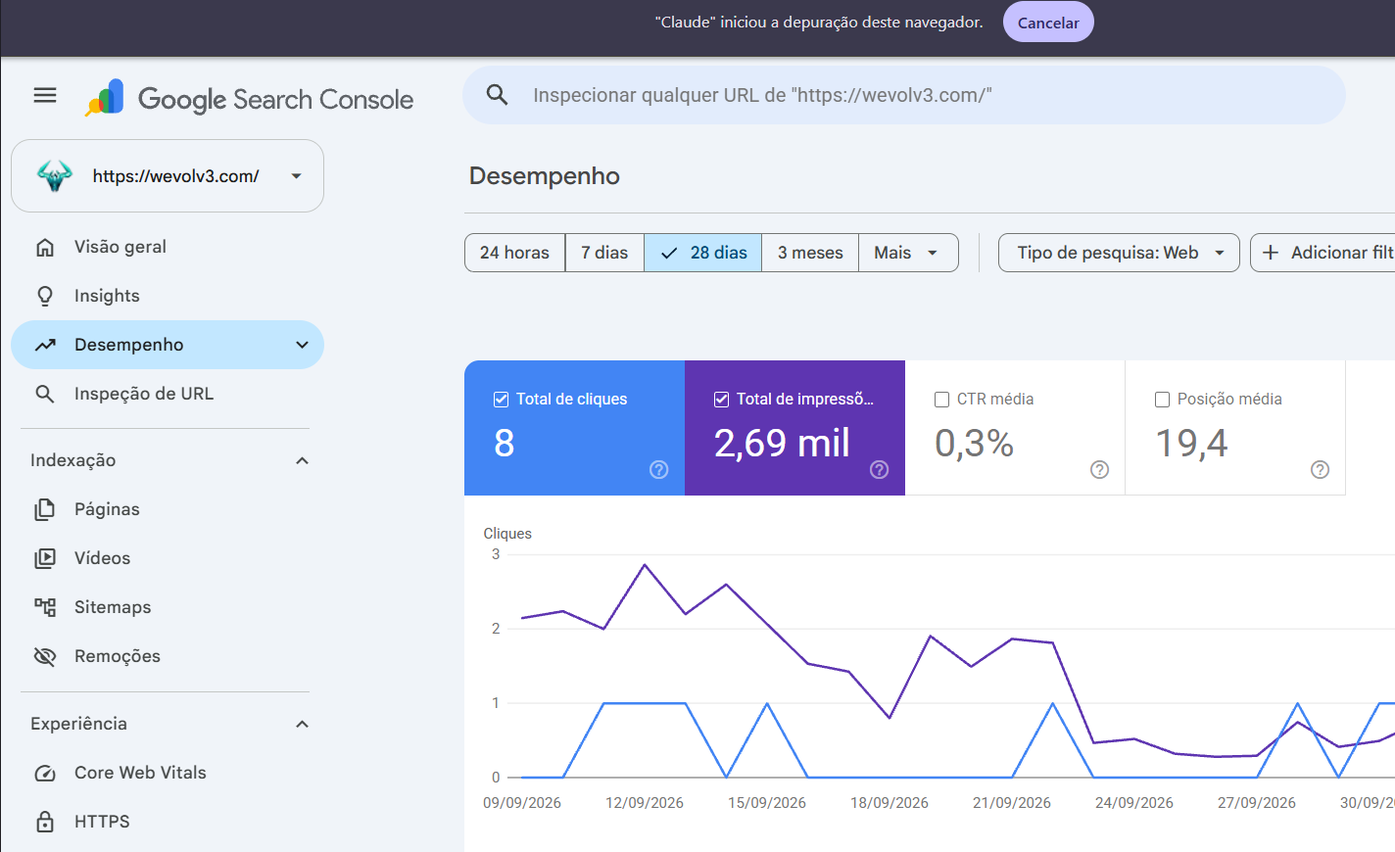
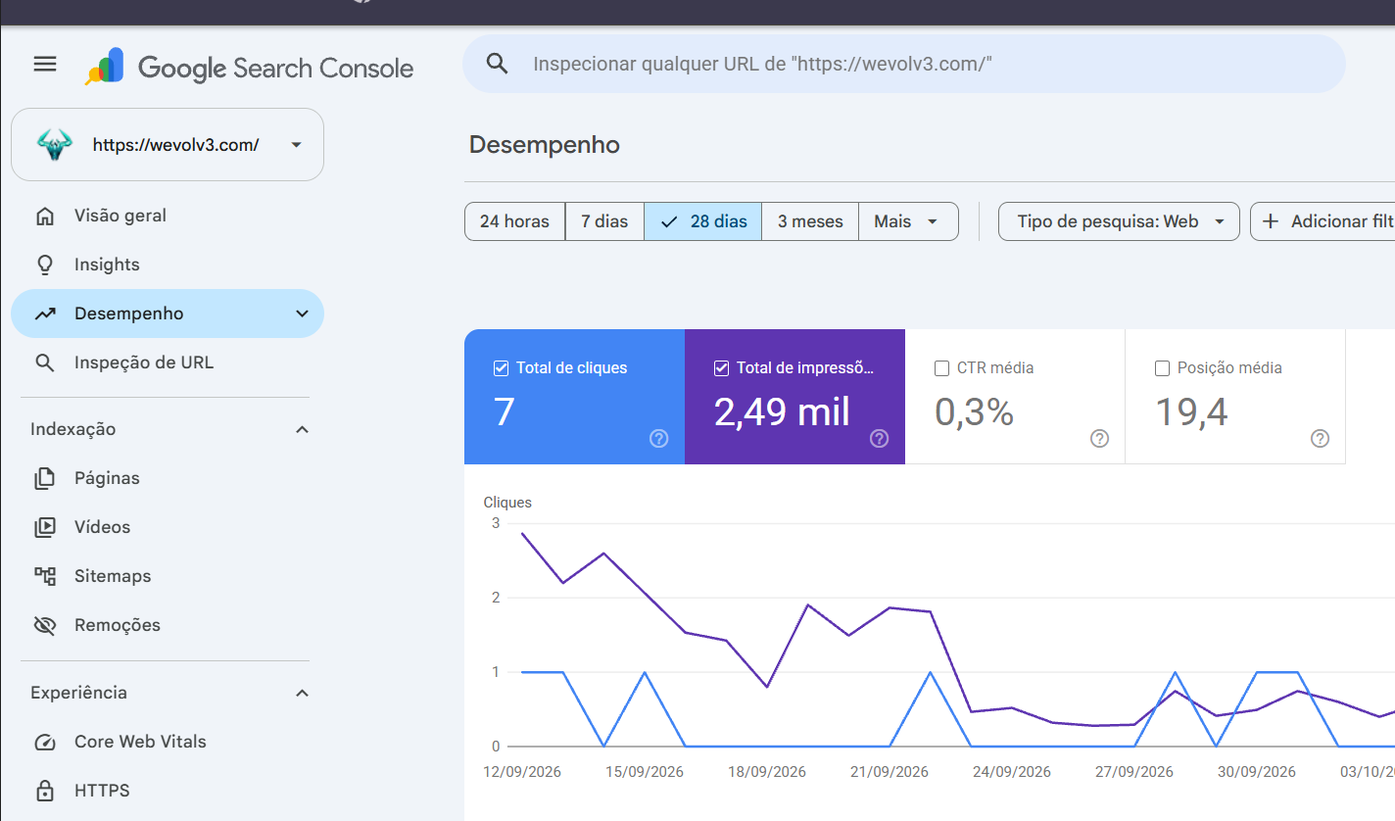
docs(seo): leitura de 11/10

diff --git a/docs/daily-report/raio-x-aquisicao.html b/docs/daily-report/raio-x-aquisicao.html
@@ -175,8 +175,9 @@
 <div class="wrap">
 
   <header>
-    <div class="eyebrow">Wevolv3 · 10 de outubro de 2026 · 2.690 aparições · posição 19,4 · 49 links externos</div>
+    <div class="eyebrow">Wevolv3 · 11 de outubro de 2026 · 2.490 aparições · posição 19,4 · 49 links externos</div>
     <h1>Raio-X de aquisição</h1>
+    <p class="lead"><b>11/10: a busca caiu de novo (a janela do GSC virou para 12/09 a 09/10: 7 cliques, eram 8; 2,49 mil aparições, eram 2,69 mil; posição 19,4). É a quarta leitura seguida de queda desde 3,12 mil em 06/10.</b> As buscas de decisão foram de 260 para <b>192 aparições</b> (14 buscas, posição 16,7, zero clique), e as quatro maiores buscas de KOL (topo de funil) também perderam aparições. "defi marketing agency" saiu da lista de 145 buscas: a janela termina em 09/10, o dia em que o checklist foi atualizado, então o efeito da mudança ainda não aparece; segue em acompanhamento até 23/10. GA4 pela API, sem os dias de robô e sem cidades de data center: <b>186 sessões</b>, busca orgânica com 11 sessões e os mesmos 5 eventos de lead, IA com 3 sessões e nenhum. Unassigned 1,6%, Direct 72%. Indexação 63/21 (relatório atualizado há 2 dias), links 49 de 13 sites, Bing 0 cliques / 30 aparições (eram 29) / 4 domínios, Platform Properties em zero. PostHog filtrado: zero visita em 10/10, duas hoje até agora. Nenhum post novo, nenhum órfão. As 5 telas foram recapturadas hoje.</p>
     <p class="lead"><b>10/10: busca parada (a janela do GSC não virou: 8 cliques, 2,69 mil aparições, posição 19,4, os mesmos números de ontem), e o site perdeu um pouco de visita: 180 sessões em 28 dias (eram 186), com a busca orgânica caindo de 14 para 12 sessões, mas ainda com os mesmos 5 eventos de lead.</b> A IA segue com 3 sessões e nenhum lead. Indexação 63/21, links 49 de 13 sites, Bing 0 cliques / 29 aparições / 4 domínios, Platform Properties em zero: nada mudou. Unassigned em 1,1% (só 29/09, já excluído). PostHog filtrado: 1 visita em 09/10 (página de KOL, entrada direta) e nenhuma hoje até agora. Nenhum post novo e nenhum órfão. O checklist de DeFi, atualizado ontem à noite, está em acompanhamento até 23/10. As 5 telas foram recapturadas hoje.</p>
     <p class="lead"><b>09/10: a busca caiu pelo terceiro dia seguido (2,69 mil aparições, eram 2,78 mil; posição 19,4), os 8 cliques não mexeram e a busca orgânica segue sendo o único canal com lead (14 sessões, 5 eventos de lead; a IA tem 3 sessões e nenhum).</b> As buscas de decisão foram de 292 para <b>260 aparições</b> (23 buscas, posição 17,6, zero clique). "defi marketing agency" caiu para 38 (13ª queda seguida). <b>A busca foi aberta hoje</b> (Google em inglês, EUA): no topo há um <b>resumo de IA</b> que responde "o que é uma DeFi marketing agency" sem citar a Wevolv3, e os 8 primeiros links são listas do tipo "top DeFi marketing agencies" (LinkedIn Pulse, Finextra, IBM Community, revenuebase, Istanbul Blockchain Week). O Google mostra a Wevolv3 na posição 13,3 em 90 dias, 237 aparições. "growth pod vs agency" segue na posição 5,2 com 72 aparições e zero clique; o título novo completa 14 dias em 14/10, quando a busca dela será aberta. O post das melhores firmas de 2026, que ontem estava fora, <b>já entrou no índice</b>; a indexação pendente foi pedida e aceita. Índice 63/21 (relatório parado em 03/10, 6 dias), links iguais (49 de 13 sites), Bing 0 cliques / 29 aparições / 4 domínios, Platform Properties em zero. Unassigned 1,6%. As 5 telas foram <b>recapturadas em 09/10</b>.</p>
     <p class="lead"><b>09/10, segunda rodada (19h): nada mudou desde a manhã.</b> A janela do GSC só vira amanhã; as 5 telas foram recapturadas de novo e batem com os números da manhã (8 cliques, 2,69 mil, posição 19,4; 63/21; 49 links de 13 sites; Bing 0 / 29 / 4 domínios; Platform Properties em zero). GA4 pela API, mesma janela e mesmas exclusões: 186 sessões, Unassigned caiu para 2 (1,0%). O print do GA4 mostra o bruto (314 sessões, Direct 80%): é a tela sem os filtros de robô, não divergência da API. PostHog filtrado: 2 visitas hoje (home e a página de KOL, entrada direta). Nenhum post novo e nenhum órfão. A decisão sobre "defi marketing agency" segue pendente.</p>
@@ -497,7 +498,7 @@
             <th>Métrica</th>
             <th>27/07 (início)</th>
             <th>13/08 (meio)</th>
-            <th>10/10 (hoje)</th>
+            <th>11/10 (hoje)</th>
             <th>Desde o início</th>
           </tr>
         </thead>
@@ -555,12 +556,12 @@
     </div>
 
     <figure>
-      <img src="/_blob/06dc4774890612475fbc089f374c111f" alt="Search Console, relatório Desempenho em 28 dias, com o placar de 6 cliques, 4,34 mil impressões, CTR 0,1% e posição 17,4">
+      <img src="/_blob/671485118f575766e1b46429b33f72fc" alt="Search Console, relatório Desempenho em 28 dias, com o placar de 6 cliques, 4,34 mil impressões, CTR 0,1% e posição 17,4">
       <figcaption><b>Onde olhar:</b> os quatro cartões no topo são o placar do período, e hoje
       marcam <b>8</b> cliques, <b>2,92 mil</b> impressões, CTR 0,3% e posição <b>18,9</b> (captura de 07/10; eram 3,12 mil e 18,3 em 06/10). No
       gráfico, a linha roxa (impressões) é a notícia ruim da semana: depois do pico de meados de setembro
       ela desce em degraus e, a partir de 24/09, fica rente ao chão. Quem puxa é a página de KOL perdendo
-      vitrine. A linha azul (cliques) segue com um clique aqui e ali. <b>08/10</b> (recapturada, janela 08/09 a 05/10): <b>8</b> cliques, <b>2,78 mil</b> impressões, CTR 0,3%, posição <b>19,3</b>. <b>09/10</b> (recapturada, janela 09/09 a 06/10): <b>8</b> cliques, <b>2,69 mil</b> impressões, CTR 0,3%, posição <b>19,4</b>. <b>10/10</b> (recapturada): mesma janela, mesmos números.</figcaption>
+      vitrine. A linha azul (cliques) segue com um clique aqui e ali. <b>08/10</b> (recapturada, janela 08/09 a 05/10): <b>8</b> cliques, <b>2,78 mil</b> impressões, CTR 0,3%, posição <b>19,3</b>. <b>09/10</b> (recapturada, janela 09/09 a 06/10): <b>8</b> cliques, <b>2,69 mil</b> impressões, CTR 0,3%, posição <b>19,4</b>. <b>10/10</b> (recapturada): mesma janela, mesmos números. <b>11/10</b> (recapturada, janela 12/09 a 09/10): <b>7</b> cliques, <b>2,49 mil</b> impressões, CTR 0,3%, posição <b>19,4</b>.</figcaption>
     </figure>
 
     <p>Traduzindo: em 28 dias a Wevolv3 apareceu <b>4.290</b> vezes e recebeu 8 visitas. Uma
@@ -642,7 +643,7 @@
     existe na busca.</p>
 
     <figure>
-      <img src="/_blob/14543d425f3201eaaa18a32b488ab492" alt="Search Console, tela de indexação de páginas, mostrando 63 páginas indexadas e 18 não indexadas">
+      <img src="/_blob/095e624f6868c81c2e0eed1fba052c79" alt="Search Console, tela de indexação de páginas, mostrando 63 páginas indexadas e 18 não indexadas">
       <figcaption><b>Onde olhar:</b> os dois cartões no topo, <b>18 não indexadas</b> (cinza) e
       <b>63 indexadas</b> (verde), e o gráfico de barras logo abaixo. Cada barra é um dia: a parte
       verde é o que está no índice, a cinza é o que ficou de fora. Repare no degrau do começo de setembro: a parte cinza encolhe de uma vez e fica baixa desde então. Captura de 7 de outubro: <b>63 dentro e 21 fora</b> (eram 18). Os 3 a mais batem com a limpeza de 06/10 (<code>/linktree/</code> em noindex, post da Cellframe em 301) e com posts novos ainda sem rastreio. <b>08/10</b> (recapturada): igual, 63 e 21, relatório atualizado em 03/10. <b>09/10</b> (recapturada): igual, 63 e 21; o relatório segue com data de 03/10 (6 dias sem atualizar).</figcaption>
@@ -673,7 +674,7 @@
     quem já tem reputação.</p>
 
     <figure>
-      <img src="/_blob/4018010754703cd720c397686b1d94aa" alt="Search Console, relatório Links, com 51 links externos e 407 links internos">
+      <img src="/_blob/379a6e16542ca1bda5fc8d548d70b738" alt="Search Console, relatório Links, com 51 links externos e 407 links internos">
       <figcaption><b>Onde olhar:</b> o quadro <b>Principais sites com links</b>, dentro da coluna
       <b>Links externos</b> (total de 49 em 06/10). Atenção: esse quadro mostra <b>só os 5 primeiros</b> (goodfirms 27,
       dev.to 5, wekolnect 5, coinmarketcap 2, edverise 2), que somam 41 dos 49 links. A lista inteira, com os 13
@@ -786,7 +787,7 @@
     </ul>
 
     <figure>
-      <img src="/_blob/43f3e76da59209e4a0255eaa287f611b" alt="Google Analytics, relatório Aquisição de tráfego, sessões por canal nos últimos 28 dias">
+      <img src="/_blob/092cc54ce13b884c1269689cdcb8377c" alt="Google Analytics, relatório Aquisição de tráfego, sessões por canal nos últimos 28 dias">
       <figcaption><b>Onde olhar:</b> o gráfico mostra cada canal como uma linha ao longo dos 28
       dias, e a tabela embaixo dá o placar: a tela mostra o número bruto, <b>254</b> sessões (02/09 a 29/09), com Direct em 186 (73,2%) e Unassigned em 13, porque inclui os dois dias de robô (28 e 29/09). Sem esses dias, pela API, são <b>189</b> sessões, Direct 137 (72,5%) e Unassigned 2, que é o número que vale. As colunas <b>Sessões engajadas</b> e <b>Taxa de
       engajamento</b> separam visita boa de visita que bate e sai. Captura de 6 de outubro: a tela mostra o bruto, com os dias de robô (28 e 29/09) e o pico de 01/10 vindo de Council Bluffs (data center do Google, 23 sessões Direct sem engajamento). Pela API, sem esses dias e sem cidades de data center, são <b>188</b> sessões (08/09 a 05/10), Direct 134 (71,3%), Organic Search 17 com <b>5 conversões</b>, a primeira vez que a busca orgânica converte. <b>07/10</b> (recapturada): mesma regra pela API, <b>204</b> sessões (09/09 a 06/10), Direct 143 (70,1%), Organic Search 17 (8,3%, 5 conversões), Organic Social 32 (15,7%), Unassigned 5 (2,5%), AI Assistant 3 sem conversão; bruto 328. <b>08/10</b> (recapturada): <b>201</b> sessões (10/09 a 07/10), Direct 144 (71,6%), Organic Social 29 (14,4%), Organic Search 17 (8,5%, 5 conversões), Referral 4, Unassigned 4 (2,0%), AI Assistant 3 sem conversão; bruto 331. <b>09/10</b> (recapturada): <b>186</b> sessões (11/09 a 08/10), Direct 132 (71,0%), Organic Social 30 (16,1%), Organic Search 14 (7,5%, 5 conversões), Referral 4, Unassigned 3 (1,6%), AI Assistant 3 sem conversão; bruto 255.</figcaption>
@@ -870,7 +871,7 @@
     diferença costuma dizer algo.</p>
 
     <figure>
-      <img src="/_blob/169e89b9141589455179ce0354003a84" alt="Bing Webmaster Tools, relatório Backlinks, com 3 domínios, 3 páginas e 3 âncoras">
+      <img src="/_blob/41db0bd926e1ee0319f9a7a9300c060b" alt="Bing Webmaster Tools, relatório Backlinks, com 3 domínios, 3 páginas e 3 âncoras">
       <figcaption><b>Onde olhar:</b> os três cartões no topo, domínios / páginas / âncoras, hoje
       em <b>4 / 4 / 3</b> (07/10), e a lista <b>Source domain</b> logo abaixo, com os sites que o Bing
       enxerga apontando para a Wevolv3: cbinsights, findglocal, x.com e, desde a leitura de 07/10, <b>linkedin.com</b> (o dev.to saiu em 19/09). No menu da
@@ -1181,7 +1182,8 @@
     </div>
 
     <div class="callout warn">
-      <div class="eyebrow">A recomendação do dia (10/10) · cobrar a MarketerHire; abrir a busca "growth pod vs agency" em 14/10</div>
+      <div class="eyebrow">A recomendação do dia (11/10) · cobrar a MarketerHire; abrir a busca "growth pod vs agency" em 14/10</div>
+      <p><b>11/10 (mantida, com motivo):</b> a busca caiu, mas nenhum gatilho novo disparou: as duas buscas com posição até 10 e zero clique ("marketing analytics platforms for web3 growth teams", posição 5,6, e "top web3 analytics and attribution tools for defi growth", posição 10,5) ficam abaixo de 50 aparições. O checklist de DeFi ainda não pode ser medido (a janela fecha no dia da mudança) e "growth pod vs agency" (posição 5,1, 75 aparições) tem data marcada em 14/10. A queda é geral, não de uma página, e o que tira um site da posição 19 é autoridade de fora. Por isso a ação de maior impacto segue sendo <b>cobrar a MarketerHire</b>, que depende do Rômulo. Novidade desde ontem: nenhuma resposta registrada; se amanhã continuar igual, ela vai para a lista de pendências do Rômulo e sai da recomendação.</p>
       <p><b>10/10 (muda):</b> o gatilho de DeFi foi resolvido ontem à noite (o Rômulo decidiu agir; o checklist ganhou resposta direta, tabela de custo e link de <code>/defi-marketing</code>) e saiu do parecer até 23/10. Hoje nenhum número de busca mudou. O gatilho que sobra tem data marcada: <b>"growth pod vs agency"</b> (posição 5,2, 72 aparições, zero clique) completa 14 dias de título novo em 14/10, e nesse dia a rotina abre a busca para ver se há resumo de IA acima do link. Até lá, a ação de maior impacto é de link de fora: <b>cobrar a MarketerHire</b>, cujo follow-up era 03/10 e não tem resposta nem confirmação de envio na caixa conectada. Depende do Rômulo, como as reviews do Clutch e a DM do Coinmonks.</p>
       <p><b>09/10, 19h (mantida):</b> segue a mesma porque nada aconteceu desde a manhã: a decisão não foi tomada e nenhum número mudou. Amanhã, sem decisão, ela continua como pendência do Rômulo e a rotina não a repete como novidade.</p>
       <p><b>09/10 (muda):</b> a atualização de ontem não foi feita (o post não muda desde 11/09), e a busca aberta hoje mostra por que trocar a forma da ação: em "defi marketing agency" o Google responde com <b>resumo de IA</b> e o resto da página são <b>listas de "top agencies"</b>. Com 13 quedas seguidas, o gatilho vira decisão. <b>Agir:</b> no <code>/blog/defi-marketing-agency-checklist</code>, uma resposta direta de 40 a 60 palavras logo abaixo do título ("o que uma DeFi marketing agency faz e quanto custa"), uma tabela comparando os modelos de contratação com faixa de preço, e um link vindo de <code>/defi-marketing</code>. É o formato que o resumo de IA cita, e a IA é o canal que a regra de 20/09 manda considerar. <b>Ou arquivar</b>, e o gatilho sai do parecer.</p>
@@ -1357,7 +1359,8 @@
     ["07/10", 2920,  8, 18.9, 63, 21, 204, 8.33, 15.69],
     ["08/10", 2780,  8, 19.3, 63, 21, 204, 8.33, 15.69],
     ["09/10", 2690,  8, 19.4, 63, 21, 186, 7.53, 16.13],
-    ["10/10", 2690,  8, 19.4, 63, 21, 180, 6.67, 15.56]
+    ["10/10", 2690,  8, 19.4, 63, 21, 180, 6.67, 15.56],
+    ["11/10", 2490,  7, 19.4, 63, 21, 186, 5.91, 15.59]
   ];
 
   var COL = { impr:1, cliq:2, pos:3, idx:4, nidx:5, sess:6, search:7, social:8 };
@@ -1418,7 +1421,8 @@
     ["06/10", 1, 1],
     ["07/10", 2, 2],
     ["08/10", 3, 2],
-    ["09/10", 1, 1]
+    ["09/10", 1, 1],
+    ["10/10", 0, 0]
   ];
 
   function paint(){

diff --git a/docs/daily-report/raio-x-template.html b/docs/daily-report/raio-x-template.html
@@ -175,8 +175,9 @@
 <div class="wrap">
 
   <header>
-    <div class="eyebrow">Wevolv3 · 10 de outubro de 2026 · 2.690 aparições · posição 19,4 · 49 links externos</div>
+    <div class="eyebrow">Wevolv3 · 11 de outubro de 2026 · 2.490 aparições · posição 19,4 · 49 links externos</div>
     <h1>Raio-X de aquisição</h1>
+    <p class="lead"><b>11/10: a busca caiu de novo (a janela do GSC virou para 12/09 a 09/10: 7 cliques, eram 8; 2,49 mil aparições, eram 2,69 mil; posição 19,4). É a quarta leitura seguida de queda desde 3,12 mil em 06/10.</b> As buscas de decisão foram de 260 para <b>192 aparições</b> (14 buscas, posição 16,7, zero clique), e as quatro maiores buscas de KOL (topo de funil) também perderam aparições. "defi marketing agency" saiu da lista de 145 buscas: a janela termina em 09/10, o dia em que o checklist foi atualizado, então o efeito da mudança ainda não aparece; segue em acompanhamento até 23/10. GA4 pela API, sem os dias de robô e sem cidades de data center: <b>186 sessões</b>, busca orgânica com 11 sessões e os mesmos 5 eventos de lead, IA com 3 sessões e nenhum. Unassigned 1,6%, Direct 72%. Indexação 63/21 (relatório atualizado há 2 dias), links 49 de 13 sites, Bing 0 cliques / 30 aparições (eram 29) / 4 domínios, Platform Properties em zero. PostHog filtrado: zero visita em 10/10, duas hoje até agora. Nenhum post novo, nenhum órfão. As 5 telas foram recapturadas hoje.</p>
     <p class="lead"><b>10/10: busca parada (a janela do GSC não virou: 8 cliques, 2,69 mil aparições, posição 19,4, os mesmos números de ontem), e o site perdeu um pouco de visita: 180 sessões em 28 dias (eram 186), com a busca orgânica caindo de 14 para 12 sessões, mas ainda com os mesmos 5 eventos de lead.</b> A IA segue com 3 sessões e nenhum lead. Indexação 63/21, links 49 de 13 sites, Bing 0 cliques / 29 aparições / 4 domínios, Platform Properties em zero: nada mudou. Unassigned em 1,1% (só 29/09, já excluído). PostHog filtrado: 1 visita em 09/10 (página de KOL, entrada direta) e nenhuma hoje até agora. Nenhum post novo e nenhum órfão. O checklist de DeFi, atualizado ontem à noite, está em acompanhamento até 23/10. As 5 telas foram recapturadas hoje.</p>
     <p class="lead"><b>09/10: a busca caiu pelo terceiro dia seguido (2,69 mil aparições, eram 2,78 mil; posição 19,4), os 8 cliques não mexeram e a busca orgânica segue sendo o único canal com lead (14 sessões, 5 eventos de lead; a IA tem 3 sessões e nenhum).</b> As buscas de decisão foram de 292 para <b>260 aparições</b> (23 buscas, posição 17,6, zero clique). "defi marketing agency" caiu para 38 (13ª queda seguida). <b>A busca foi aberta hoje</b> (Google em inglês, EUA): no topo há um <b>resumo de IA</b> que responde "o que é uma DeFi marketing agency" sem citar a Wevolv3, e os 8 primeiros links são listas do tipo "top DeFi marketing agencies" (LinkedIn Pulse, Finextra, IBM Community, revenuebase, Istanbul Blockchain Week). O Google mostra a Wevolv3 na posição 13,3 em 90 dias, 237 aparições. "growth pod vs agency" segue na posição 5,2 com 72 aparições e zero clique; o título novo completa 14 dias em 14/10, quando a busca dela será aberta. O post das melhores firmas de 2026, que ontem estava fora, <b>já entrou no índice</b>; a indexação pendente foi pedida e aceita. Índice 63/21 (relatório parado em 03/10, 6 dias), links iguais (49 de 13 sites), Bing 0 cliques / 29 aparições / 4 domínios, Platform Properties em zero. Unassigned 1,6%. As 5 telas foram <b>recapturadas em 09/10</b>.</p>
     <p class="lead"><b>09/10, segunda rodada (19h): nada mudou desde a manhã.</b> A janela do GSC só vira amanhã; as 5 telas foram recapturadas de novo e batem com os números da manhã (8 cliques, 2,69 mil, posição 19,4; 63/21; 49 links de 13 sites; Bing 0 / 29 / 4 domínios; Platform Properties em zero). GA4 pela API, mesma janela e mesmas exclusões: 186 sessões, Unassigned caiu para 2 (1,0%). O print do GA4 mostra o bruto (314 sessões, Direct 80%): é a tela sem os filtros de robô, não divergência da API. PostHog filtrado: 2 visitas hoje (home e a página de KOL, entrada direta). Nenhum post novo e nenhum órfão. A decisão sobre "defi marketing agency" segue pendente.</p>
@@ -497,7 +498,7 @@
             <th>Métrica</th>
             <th>27/07 (início)</th>
             <th>13/08 (meio)</th>
-            <th>10/10 (hoje)</th>
+            <th>11/10 (hoje)</th>
             <th>Desde o início</th>
           </tr>
         </thead>
@@ -560,7 +561,7 @@
       marcam <b>8</b> cliques, <b>2,92 mil</b> impressões, CTR 0,3% e posição <b>18,9</b> (captura de 07/10; eram 3,12 mil e 18,3 em 06/10). No
       gráfico, a linha roxa (impressões) é a notícia ruim da semana: depois do pico de meados de setembro
       ela desce em degraus e, a partir de 24/09, fica rente ao chão. Quem puxa é a página de KOL perdendo
-      vitrine. A linha azul (cliques) segue com um clique aqui e ali. <b>08/10</b> (recapturada, janela 08/09 a 05/10): <b>8</b> cliques, <b>2,78 mil</b> impressões, CTR 0,3%, posição <b>19,3</b>. <b>09/10</b> (recapturada, janela 09/09 a 06/10): <b>8</b> cliques, <b>2,69 mil</b> impressões, CTR 0,3%, posição <b>19,4</b>. <b>10/10</b> (recapturada): mesma janela, mesmos números.</figcaption>
+      vitrine. A linha azul (cliques) segue com um clique aqui e ali. <b>08/10</b> (recapturada, janela 08/09 a 05/10): <b>8</b> cliques, <b>2,78 mil</b> impressões, CTR 0,3%, posição <b>19,3</b>. <b>09/10</b> (recapturada, janela 09/09 a 06/10): <b>8</b> cliques, <b>2,69 mil</b> impressões, CTR 0,3%, posição <b>19,4</b>. <b>10/10</b> (recapturada): mesma janela, mesmos números. <b>11/10</b> (recapturada, janela 12/09 a 09/10): <b>7</b> cliques, <b>2,49 mil</b> impressões, CTR 0,3%, posição <b>19,4</b>.</figcaption>
     </figure>
 
     <p>Traduzindo: em 28 dias a Wevolv3 apareceu <b>4.290</b> vezes e recebeu 8 visitas. Uma
@@ -1181,7 +1182,8 @@
     </div>
 
     <div class="callout warn">
-      <div class="eyebrow">A recomendação do dia (10/10) · cobrar a MarketerHire; abrir a busca "growth pod vs agency" em 14/10</div>
+      <div class="eyebrow">A recomendação do dia (11/10) · cobrar a MarketerHire; abrir a busca "growth pod vs agency" em 14/10</div>
+      <p><b>11/10 (mantida, com motivo):</b> a busca caiu, mas nenhum gatilho novo disparou: as duas buscas com posição até 10 e zero clique ("marketing analytics platforms for web3 growth teams", posição 5,6, e "top web3 analytics and attribution tools for defi growth", posição 10,5) ficam abaixo de 50 aparições. O checklist de DeFi ainda não pode ser medido (a janela fecha no dia da mudança) e "growth pod vs agency" (posição 5,1, 75 aparições) tem data marcada em 14/10. A queda é geral, não de uma página, e o que tira um site da posição 19 é autoridade de fora. Por isso a ação de maior impacto segue sendo <b>cobrar a MarketerHire</b>, que depende do Rômulo. Novidade desde ontem: nenhuma resposta registrada; se amanhã continuar igual, ela vai para a lista de pendências do Rômulo e sai da recomendação.</p>
       <p><b>10/10 (muda):</b> o gatilho de DeFi foi resolvido ontem à noite (o Rômulo decidiu agir; o checklist ganhou resposta direta, tabela de custo e link de <code>/defi-marketing</code>) e saiu do parecer até 23/10. Hoje nenhum número de busca mudou. O gatilho que sobra tem data marcada: <b>"growth pod vs agency"</b> (posição 5,2, 72 aparições, zero clique) completa 14 dias de título novo em 14/10, e nesse dia a rotina abre a busca para ver se há resumo de IA acima do link. Até lá, a ação de maior impacto é de link de fora: <b>cobrar a MarketerHire</b>, cujo follow-up era 03/10 e não tem resposta nem confirmação de envio na caixa conectada. Depende do Rômulo, como as reviews do Clutch e a DM do Coinmonks.</p>
       <p><b>09/10, 19h (mantida):</b> segue a mesma porque nada aconteceu desde a manhã: a decisão não foi tomada e nenhum número mudou. Amanhã, sem decisão, ela continua como pendência do Rômulo e a rotina não a repete como novidade.</p>
       <p><b>09/10 (muda):</b> a atualização de ontem não foi feita (o post não muda desde 11/09), e a busca aberta hoje mostra por que trocar a forma da ação: em "defi marketing agency" o Google responde com <b>resumo de IA</b> e o resto da página são <b>listas de "top agencies"</b>. Com 13 quedas seguidas, o gatilho vira decisão. <b>Agir:</b> no <code>/blog/defi-marketing-agency-checklist</code>, uma resposta direta de 40 a 60 palavras logo abaixo do título ("o que uma DeFi marketing agency faz e quanto custa"), uma tabela comparando os modelos de contratação com faixa de preço, e um link vindo de <code>/defi-marketing</code>. É o formato que o resumo de IA cita, e a IA é o canal que a regra de 20/09 manda considerar. <b>Ou arquivar</b>, e o gatilho sai do parecer.</p>
@@ -1357,7 +1359,8 @@
     ["07/10", 2920,  8, 18.9, 63, 21, 204, 8.33, 15.69],
     ["08/10", 2780,  8, 19.3, 63, 21, 204, 8.33, 15.69],
     ["09/10", 2690,  8, 19.4, 63, 21, 186, 7.53, 16.13],
-    ["10/10", 2690,  8, 19.4, 63, 21, 180, 6.67, 15.56]
+    ["10/10", 2690,  8, 19.4, 63, 21, 180, 6.67, 15.56],
+    ["11/10", 2490,  7, 19.4, 63, 21, 186, 5.91, 15.59]
   ];
 
   var COL = { impr:1, cliq:2, pos:3, idx:4, nidx:5, sess:6, search:7, social:8 };
@@ -1418,7 +1421,8 @@
     ["06/10", 1, 1],
     ["07/10", 2, 2],
     ["08/10", 3, 2],
-    ["09/10", 1, 1]
+    ["09/10", 1, 1],
+    ["10/10", 0, 0]
   ];
 
   function paint(){

diff --git a/docs/SEO_DAILY_LOG.md b/docs/SEO_DAILY_LOG.md
@@ -790,3 +790,4 @@ enviadas em GIF.
 | 2026-10-09 (19h) | 8 | 2.690 | 0,3% | 19,4 | 63 | 21 | 186 | 70,97% | 16,13% | 7,53% | **Segunda rodada do dia: sem mudanca desde a manha.** Janela do GSC nao vira no mesmo dia. Extensao nao usada: GSC, Platform Properties e Bing lidos pela captura de janela (`capture-telas.ps1`, Profile 2 e Default), as 5 telas recapturadas e conferidas, assets novos, antigos apagados. **GSC:** 8 / 2,69 mil / 0,3% / 19,4; indexacao 63/21; links 49 externos (cartao igual), internos 465. **Bing (logado):** 0 cliques / 29 impressoes (3 meses), backlinks 4 dominios (cbinsights, findglocal, x.com, linkedin). **Platform Properties:** Instagram 0 (-100% vs periodo anterior), TikTok 0, X 0. **GA4 API (11/09-08/10, mesma janela da manha e mesmas exclusoes, inclusive Glenview e Frankfurt am Main): 186 sessoes**, numeros da manha mantidos; Unassigned caiu para 2 (1,0%), 14 dias so com 29/09 Chisinau (excluido). Bruto 314 (Direct 252, 80,3%) = UI do GA4, sem divergencia API x tela (a tela mostra o bruto com os dias de robo). **IA:** AI Assistant 3 / 0 conv.; Organic Search 14 / 5 conv. **PostHog filtrado:** 09/10 2pv (home e `/what-is-a-kol-in-crypto`, direto). Nenhum referrer da coluna Medir. **Sanity:** mesmos 4 posts em 30 dias, nenhum novo; orfaos 0; checklist de DeFi sem mudanca desde 11/09. **ACOES_DE_LINK lido:** sem linha nova desde a manha. **Recomendacao (mantida, motivo):** decisao do Romulo sobre "defi marketing agency" (agir ou arquivar) segue pendente e nada mudou desde a manha. Raio-X republicado (v58) com paragrafo das 19h; SERIE sem linha nova (mesma janela). |
 | 2026-10-09 (noite) | 8 | 2.690 | 0,3% | 19,4 | 63 | 21 | 186 | 70,97% | 16,13% | 7,53% | **Gatilho "defi marketing agency": Romulo decidiu agir e a acao foi feita.** `/blog/defi-marketing-agency-checklist` (Sanity, ifRevisionID, tx ZWgTu09EqYKlhF1Zk5n7ks): resposta direta de 60 palavras abaixo do H1, h2 "What each hiring model costs" + htmlTable de 3 modelos, h3 de custo no FAQ; numeros so de fonte ja publicada (comparativo de 10 firmas no Clutch, benchmark de 861 criadores). `/defi-marketing` com link no FAQ (commit 0c1646d). Conferido ao vivo; indexacao pedida e aceita no GSC para as duas. Gatilho sai do parecer e vai para ACOES_DE_LINK como "em acompanhamento desde 09/10"; reavaliar em 23/10. Pendencias conferidas: artigo 03 nao saiu no Medium (ultimo post 28/09); nenhum e-mail de MarketerHire/Coinmonks/techbehemoths/IMH/Clutch na caixa conectada em 14 dias. |
 | 2026-10-10 | 8 | 2.690 | 0,3% | 19,4 | 63 | 21 | 180 | 72,78% | 15,56% | 6,67% | **Busca parada: a janela do GSC nao virou (sabado; segue 09/09-06/10), 8 cliques / 2,69 mil / pos. 19,4 iguais a 09/10. GA4 perdeu 6 sessoes (186 -> 180), organica 14 -> 12 sessoes mas com os mesmos 5 conv.; IA 3 / 0 conv.** Extensao nao usada: tudo pela captura de janela (`capture-telas.ps1`, Profile 2 + Default para o Bing); 1a tentativa falhou porque o `-OutDir` nao existia (o script nao cria a pasta: criar antes). As 5 telas + 3 Platform Properties + Bing perf recapturadas e conferidas por Read. **GSC (pela tela):** 8 / 2,69 mil / 0,3% / 19,4; indexacao 63/21 (4 motivos); links 49 externos (cartao: goodfirms 27, dev.to 5, igual), internos 465. Lista de consultas, coluna Decisao e data de "Ultima atualizacao" das Paginas NAO lidas (a captura so pega o topo; janela identica a de 09/10, entao valem os numeros de 09/10: decisao 23 consultas / 260 impr. / 0 cliq. / pos. 17,6). **Ritmo do blog:** 2 posts em outubro (teto 4). **Orfaos: 0 encontrados / 0 corrigidos** (mesmos 4 posts em 30 dias, nenhum novo, todos linkados desde 08/10). **GA4 API (12/09-09/10), sem 20260928/20260929 e sem cidades de data center: 180 sessoes**: Direct 131 (72,8%, engaj. 7,6%, 4s, 0 conv.), Organic Social 28 (15,6%, 28,6%, 22s, 0), **Organic Search 12 (6,7%, 41,7%, 234s, 5 conv.)**, Referral 4 (0), AI Assistant 3 (100%, 348s, 0 conv.), Unassigned 2 (1,1%). Bruto 314 (Direct 254, 1 conv. no Direct bruto). **Watch Unassigned OK** (1,1%): 14 dias so 29/09 Chisinau (excluido). Direct 72,8% vs baseline 74,3%: dentro do ruido, hipotese sem confirmacao. **IA:** a busca paga (5 conv. em 12 sessoes), a IA nao (0 em 3). **Bing (logado, Default):** 0 cliques / 29 impressoes (3 meses), backlinks 4 dominios / 4 paginas / 3 ancoras (cbinsights, findglocal, x.com, linkedin), igual. **Platform Properties (28d):** Instagram 0 (-100% vs anterior), TikTok 0, X 0. **PostHog filtrado (Council Bluffs incluido no filtro):** 09/10 1pv (`/what-is-a-kol-in-crypto`, direto, sem cidade); 10/10 zero ate agora. Nenhum referrer da coluna Medir. **ACOES_DE_LINK lido:** checklist de DeFi em acompanhamento ate 23/10 (sai do parecer); techbehemoths/IMH aguardando; MarketerHire follow-up de 03/10 sem confirmacao; artigo 03 do Medium, reviews do Clutch e DM Coinmonks com o Romulo. **Recomendacao (muda):** gatilho DeFi resolvido; "growth pod vs agency" so volta em 14/10 (14 dias de titulo novo, abrir a busca). Ate la, a maior alavanca e link de fora: cobrar a MarketerHire (depende do Romulo). **Telas:** as 5 recapturadas em 10/10, assets novos, os 5 antigos apagados; Raio-X republicado (v59) com paragrafo de 10/10, recomendacao, SERIE (10/10 = 2690 / 8 / 19,4 / 180) e SERIE_PH (09/10 = 1/1). |
+| 2026-10-11 | 7 | 2.490 | 0,3% | 19,4 | 63 | 21 | 186 | 72,04% | 15,59% | 5,91% | **Busca cai de novo: a janela do GSC virou (12/09-09/10), 7 cliques (eram 8), 2,49 mil impressoes (eram 2,69 mil), pos. 19,4; 4a leitura de queda desde 3,12 mil em 06/10. Organica segue o unico canal com lead (11 sessoes, 5 conv.), IA 3 / 0 conv.** Captura de janela (`capture-telas.ps1`, Profile 2 + Default para o Bing; extras passados em chamadas separadas, porque a lista com virgula so capturou a 1a) e extensao (`2707213e`, conta diablov2021 via `authuser=`) para a lista de consultas. **GSC:** 145 consultas; top "what is a kol in crypto" 235 (16,2), "what is kol in crypto" 213 (20,6), "kol meaning crypto" 188 (14,5), "what does kol mean in crypto" 118 (17,3), "growth pod vs agency" 75 (pos. 5,1, zero clique; abrir a busca em 14/10), "kol crypto" 49, "metaverse kol" 47, "top web3 analytics and attribution tools for defi growth" 45 (10,5), "token launch marketing" 42 (23,9), "marketing analytics platforms for web3 growth teams" 36 (5,6); tudo zero clique. **Decisao: 14 consultas / 192 impr. (eram 260) / 0 cliques / pos. 16,7 (era 17,6).** "defi marketing agency" saiu da lista (era 38); janela termina em 09/10, dia da atualizacao do checklist: efeito ainda nao medivel, segue em acompanhamento ate 23/10. Nenhum gatilho novo (as consultas ate pos. 10 com zero clique ficam abaixo de 50 impr.). **Indexacao 63/21** (4 motivos); **Ultima atualizacao do relatorio: ha 47h (~09/10)**, dado atual. **Links:** 49 externos (cartao goodfirms 27, dev.to 5, igual), internos 465. **Ritmo do blog:** 2 posts em outubro (teto 4). **Orfaos: 0 encontrados / 0 corrigidos** (mesmos 4 posts em 30 dias). **GA4 API (13/09-10/10), sem 20260928/20260929 e sem cidades de data center (Council Bluffs 33, Glenview 11, Ashburn 8, The Dalles 7, Boardman, Frankfurt, N. Charleston, Des Moines, Groningen, Newark, San Jose, Lulea): 186 sessoes**: Direct 134 (72,0%, engaj. 8,2%, 0 conv.), Organic Social 29 (15,6%, 27,6%, 0), **Organic Search 11 (5,9%, 45,5%, 5 conv.)**, Referral 6 (0), AI Assistant 3 (100%, 0 conv.), Unassigned 3 (1,6%). Bruto sem os dias de robo 261 (Direct 203; Singapura 42 Direct sem engajamento segue contado, monitorar). **Watch Unassigned OK** (1,6%): 14 dias so 29/09 Chisinau (excluido) e 11/10 San Jose (data center, borda). Direct 72,0% vs baseline 74,3%: ruido. **IA:** a busca paga (5 conv. em 11), a IA nao (0 em 3). **Bing (Default, logado):** 0 cliques / 30 impressoes (eram 29, 3 meses), backlinks 4 dominios / 4 paginas / 3 ancoras, igual. **Platform Properties (28d):** Instagram 0 (-100%), TikTok 0, X 0. **PostHog filtrado:** 10/10 zero; 11/10 2pv ate agora (/blog/post-quantum-crypto-projects-2026 de Korolyov e /blog de New York, diretos). Nenhum referrer da coluna Medir. **ACOES_DE_LINK lido:** sem linha nova desde 10/10 (TechBehemoths aprovado, IMH no ar, checklist DeFi em acompanhamento, MarketerHire sem resposta). **Recomendacao (mantida, motivo):** queda geral e sem gatilho novo; a alavanca segue autoridade de fora: cobrar a MarketerHire (depende do Romulo). Sem novidade amanha, ela vira pendencia do Romulo e sai da recomendacao. **Telas:** as 5 recapturadas em 11/10, assets novos, os 5 antigos apagados; Raio-X republicado (v60) com paragrafo de 11/10, recomendacao, SERIE (11/10 = 2490 / 7 / 19,4 / 186) e SERIE_PH (10/10 = 0/0). |
